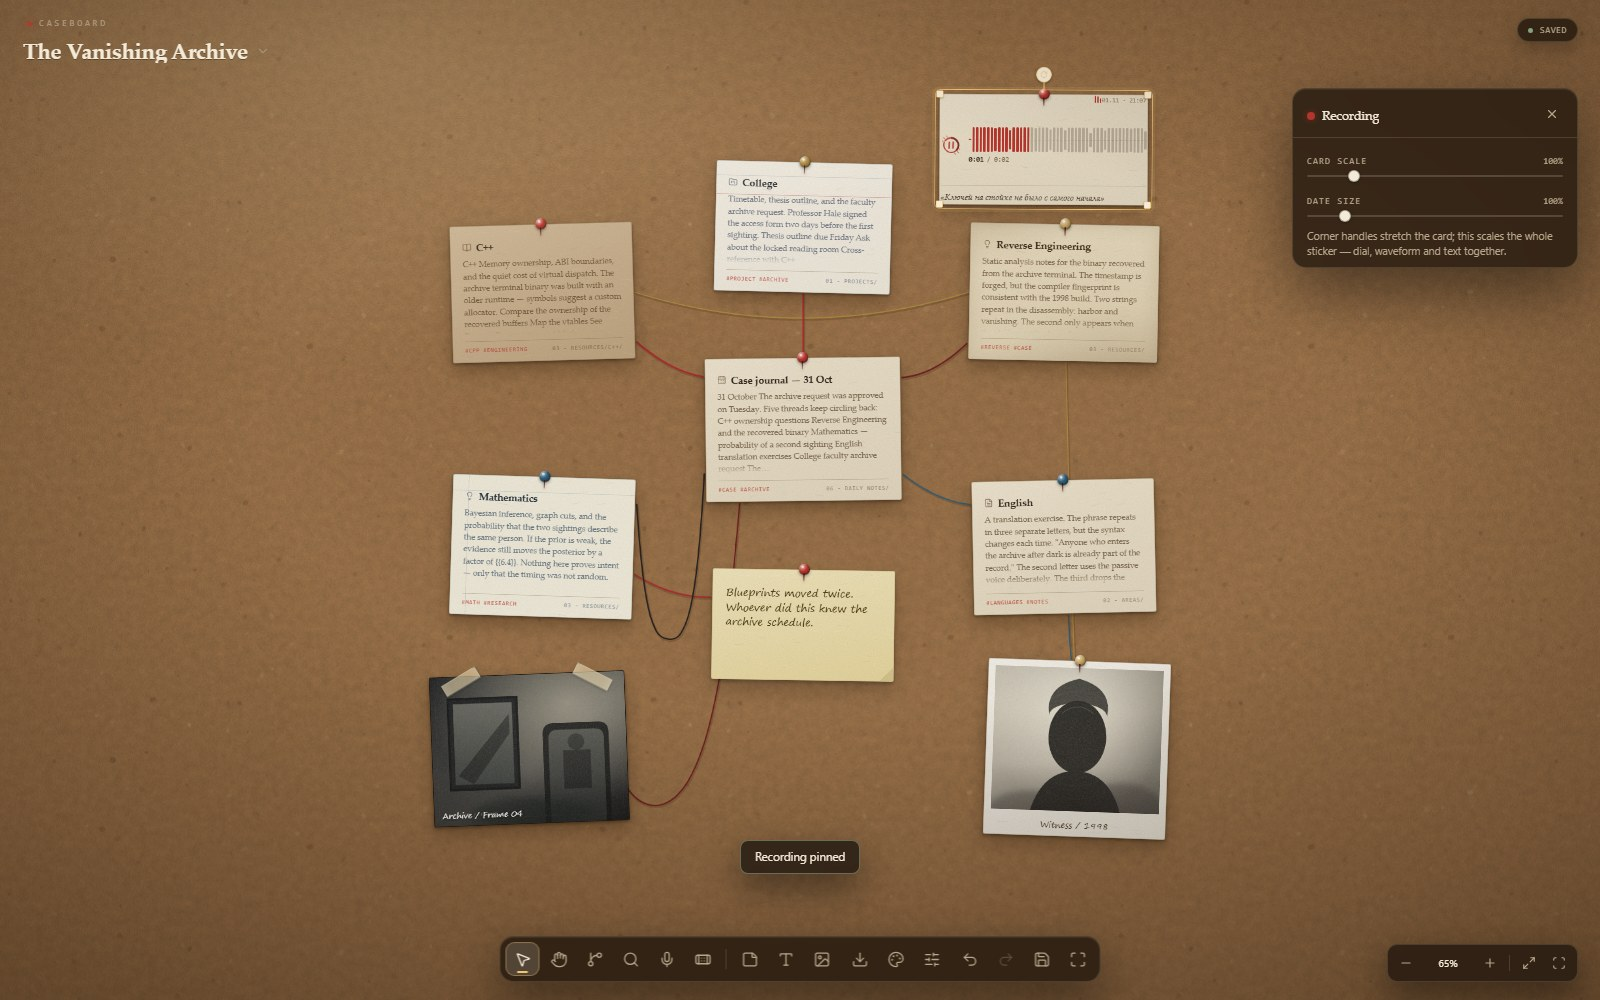
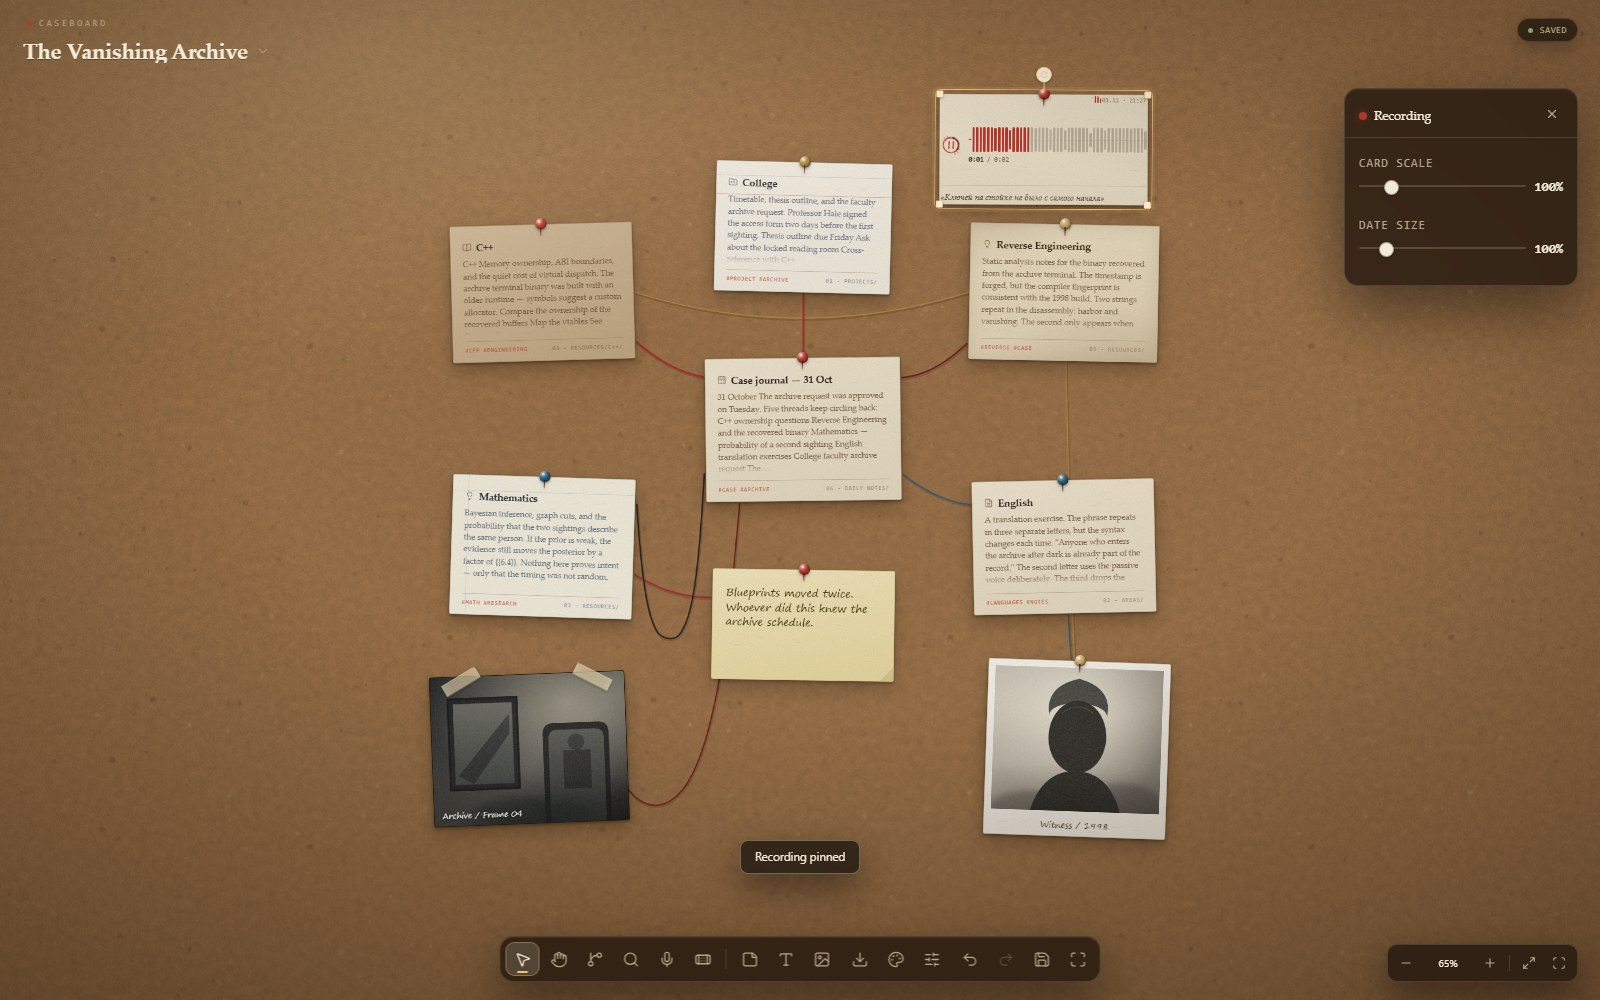
feat: redraw the play mark in chalk and tighten the recording panel
The mark was a stack of faint dashed strokes buried under a coarse grain
filter, so it turned to mud at the 32 px it actually occupies. It is now
one firm crayon pass with a retracing stroke beside it, a hatched triangle
and lifted-off flicks, with a gentle displacement filter that keeps the
played arc legible. The panel drops the hint line and prints the percentage
beside its slider.

Changed region(s): [[0.7812, 0.062, 1.0, 0.31]]

diff --git a/src/render/AudioCard.ts b/src/render/AudioCard.ts
@@ -18,28 +18,27 @@ const MIN_BARS = 12;
 const MAX_BARS = 84;
 
 /**
- * The circle is drawn as three overlapping passes with broken dashes, so the crayon
- * runs out of ink in places and overshoots where the stroke meets its own start.
+ * The mark is drawn, not typed: one firm crayon pass around the outside, a lighter
+ * retracing pass beside it, and a triangle shaded with diagonal strokes so the paper
+ * reads through. A per-card chalk filter breaks the edges and punches the grain.
  */
 const RING_MAIN =
-  "M16.9 4.7C23 5.4 27.6 10.5 27.3 16.6 27 22.7 21.9 27.6 15.8 27.2 9.9 26.8 5.1 21.8 4.8 15.9 4.5 10.2 9.4 5 15.5 4.6c1.4-.1 2.5-.1 3.5.2";
-const RING_PASS_ONE =
-  "M14.6 5.9C20.4 5 26.2 9.4 26.7 15.4 27.2 21.4 22.6 26.9 16.6 27.1 10.7 27.3 5.6 22.8 5.1 17 4.6 11.5 8.7 6.7 14 5.9";
-const RING_PASS_TWO =
-  "M18.6 4.1C24.4 5.5 28.4 10.8 27.8 16.8 27.2 22.7 21.9 27.3 15.9 26.9 10.1 26.5 5.2 21.7 4.6 15.9 4.1 10.7 8.1 5.7 13.6 4.4";
+  "M15.4 4.4c6.5-.4 12.1 4.7 12.2 11.1.1 6.5-5.2 11.9-11.7 11.9C9.5 27.4 4 22.1 4 15.7 4 9.6 8.9 4.7 15 4.4c1.2 0 2.1.1 3 .4";
+const RING_RETRACE =
+  "M13.8 5.6c6.1-1.3 12.6 2.9 13.3 9.1.7 6.2-4.4 12.2-10.6 12.7-6.3.5-12.1-4.4-12.4-10.7C3.8 9.9 8.4 5.4 13.8 5.6";
 const TRIANGLE =
-  "M12.7 10.9 21.6 15.9c.6.3.6 1.2 0 1.5l-8.9 4.9c-.7.4-1.5-.1-1.5-.9l.1-9.6c0-.8.8-1.2 1.4-.8Z";
-const TRIANGLE_ECHO = "M13.9 12.5 20.2 16.1 13.7 19.7 13.8 12.7";
-const PAUSE_ONE = "M13.3 11.5 12.9 20.7";
-const PAUSE_TWO = "M19.3 11.3 18.9 20.5";
-/** Short strokes radiating from the circle, like the pencil was lifted with a flourish. */
+  "M12.4 10.4 21.9 15.7c.8.4.8 1.6 0 2l-9.5 5.3c-.9.5-2-.2-2-1.2V11.6c0-1 1.1-1.6 2-1.2Z";
+const TRIANGLE_ECHO = "M13.6 12.5 20.1 16.2 13.5 19.9Z";
+const PAUSE_ONE = "M13 11.2 12.6 20.8";
+const PAUSE_TWO = "M19.6 11.2 19.2 20.8";
+/** Short flicks outside the circle, the way a crayon is lifted off the paper. */
 const SPARKS = [
-  "M6.5 6.5 4.7 4.7",
-  "M3.9 10.3 2.4 9.7",
-  "M10.3 3.9 9.4 1.9",
-  "M25.5 25.5 27.5 27.5",
-  "M28.2 21.7 29.6 22.3",
-  "M21.7 28.2 22.7 30.3",
+  "M7.4 6.8 5.1 4.5",
+  "M4.4 10.1 1.9 9.2",
+  "M10.4 4.1 9.6 1.6",
+  "M24.6 25.2 26.9 27.5",
+  "M27.6 21.9 30.1 22.8",
+  "M21.6 27.9 22.4 30.4",
 ];
 
 /**
@@ -113,30 +112,78 @@ export class AudioCard {
   }
 
   private buildDial(): { svg: SVGSVGElement; arc: SVGPathElement } {
-    const hatch = `cb-audio-hatch-${this.node.id}`;
+    const uid = this.node.id;
+    const hatch = `cb-audio-hatch-${uid}`;
+    const chalk = `cb-audio-chalk-${uid}`;
     const svg = createSvg("svg", { attr: { viewBox: "0 0 32 32", "aria-hidden": "true" } });
 
     const defs = createSvg("defs");
+    const filter = createSvg("filter", {
+      attr: {
+        id: chalk,
+        x: "-20%",
+        y: "-20%",
+        width: "140%",
+        height: "140%",
+        "color-interpolation-filters": "sRGB",
+      },
+    });
+    const transfer = createSvg("feComponentTransfer", {
+      attr: { in: "grain", result: "grainAlpha" },
+    });
+    transfer.appendChild(
+      createSvg("feFuncA", { attr: { type: "table", tableValues: "0 0.3 0.86 1 1 1" } }),
+    );
+    filter.append(
+      createSvg("feTurbulence", {
+        attr: {
+          type: "fractalNoise",
+          baseFrequency: "0.028",
+          numOctaves: "3",
+          seed: "7",
+          result: "warp",
+        },
+      }),
+      createSvg("feDisplacementMap", {
+        attr: {
+          in: "SourceGraphic",
+          in2: "warp",
+          scale: "1.15",
+          xChannelSelector: "R",
+          yChannelSelector: "G",
+          result: "wobbled",
+        },
+      }),
+      createSvg("feTurbulence", {
+        attr: {
+          type: "fractalNoise",
+          baseFrequency: "0.21",
+          numOctaves: "3",
+          seed: "19",
+          result: "grain",
+        },
+      }),
+      transfer,
+      createSvg("feComposite", {
+        attr: { in: "wobbled", in2: "grainAlpha", operator: "in" },
+      }),
+    );
     const pattern = createSvg("pattern", {
       attr: {
         id: hatch,
-        width: 2.4,
-        height: 2.4,
+        width: 2.3,
+        height: 2.3,
         patternUnits: "userSpaceOnUse",
         patternTransform: "rotate(-38)",
       },
     });
-    pattern.appendChild(createSvg("path", { attr: { d: "M0 0 V2.4", class: "cb-audio-hatch-line" } }));
-    defs.appendChild(pattern);
+    pattern.appendChild(createSvg("path", { attr: { d: "M0 0 V2.3", class: "cb-audio-hatch-line" } }));
+    defs.append(filter, pattern);
     svg.appendChild(defs);
 
-    svg.appendChild(
-      createSvg("path", { attr: { d: RING_PASS_TWO, class: "cb-audio-dial-ghost" } }),
-    );
-    svg.appendChild(
-      createSvg("path", { attr: { d: RING_PASS_ONE, class: "cb-audio-dial-back" } }),
-    );
-    svg.appendChild(
+    const mark = createSvg("g", { attr: { class: "cb-audio-mark", filter: `url(#${chalk})` } });
+    mark.appendChild(createSvg("path", { attr: { d: RING_RETRACE, class: "cb-audio-dial-back" } }));
+    mark.appendChild(
       createSvg("path", { attr: { d: RING_MAIN, class: "cb-audio-dial-ring", pathLength: 100 } }),
     );
     const arc = createSvg("path", {
@@ -147,11 +194,11 @@ export class AudioCard {
         "stroke-dasharray": "0 100",
       },
     });
-    svg.appendChild(arc);
+    mark.appendChild(arc);
 
     const sparks = createSvg("g", { attr: { class: "cb-audio-sparks" } });
     for (const d of SPARKS) sparks.appendChild(createSvg("path", { attr: { d } }));
-    svg.appendChild(sparks);
+    mark.appendChild(sparks);
 
     const glyph = createSvg("g", { attr: { class: "cb-audio-glyph" } });
     glyph.append(
@@ -159,15 +206,16 @@ export class AudioCard {
       createSvg("path", { attr: { d: TRIANGLE, class: "cb-audio-triangle" } }),
       createSvg("path", { attr: { d: TRIANGLE_ECHO, class: "cb-audio-triangle-echo" } }),
     );
-    svg.appendChild(glyph);
+    mark.appendChild(glyph);
 
     const pause = createSvg("g", { attr: { class: "cb-audio-pause" } });
     pause.append(
       createSvg("path", { attr: { d: PAUSE_ONE } }),
       createSvg("path", { attr: { d: PAUSE_TWO } }),
     );
-    svg.appendChild(pause);
+    mark.appendChild(pause);
 
+    svg.appendChild(mark);
     return { svg, arc };
   }
 

diff --git a/src/styles/nodes.css b/src/styles/nodes.css
@@ -1179,6 +1179,86 @@
   transform: scale(0.95);
 }
 
+.cb-audio-dial-back,
+.cb-audio-dial-ring,
+.cb-audio-dial-progress,
+.cb-audio-triangle,
+.cb-audio-triangle-echo,
+.cb-audio-sparks path,
+.cb-audio-pause {
+  fill: none;
+  stroke-linecap: round;
+  stroke-linejoin: round;
+}
+
+.cb-audio-dial-back {
+  stroke: var(--cb-node-accent);
+  stroke-width: 1.7;
+  opacity: 0.42;
+}
+
+.cb-audio-dial-ring {
+  stroke: var(--cb-node-accent);
+  stroke-width: 2.6;
+  opacity: 0.92;
+}
+
+.cb-audio-dial-progress {
+  stroke: color-mix(in srgb, var(--cb-node-accent) 55%, var(--card-ink));
+  stroke-width: 3.1;
+  opacity: 0;
+}
+
+.cb-audio-hatch-line {
+  stroke: color-mix(in srgb, var(--cb-node-accent) 72%, transparent);
+  stroke-width: 1.45;
+  stroke-linecap: round;
+}
+
+.cb-audio-triangle {
+  stroke: var(--cb-node-accent);
+  stroke-width: 2.2;
+}
+
+.cb-audio-triangle-echo {
+  stroke: color-mix(in srgb, var(--cb-node-accent) 34%, transparent);
+  stroke-width: 1.1;
+}
+
+.cb-audio-sparks path {
+  stroke: var(--cb-node-accent);
+  stroke-width: 2.2;
+  opacity: 0.85;
+}
+
+.cb-audio-pause {
+  stroke: var(--cb-node-accent);
+  stroke-width: 3;
+  display: none;
+}
+
+.cb-audio[data-state="playing"] .cb-audio-glyph,
+.cb-audio[data-state="paused"] .cb-audio-glyph {
+  display: none;
+}
+
+.cb-audio[data-state="playing"] .cb-audio-pause,
+.cb-audio[data-state="paused"] .cb-audio-pause {
+  display: block;
+}
+
+.cb-audio[data-state="playing"] .cb-audio-dial-progress {
+  opacity: 1;
+}
+
+.cb-audio-play:hover {
+  transform: scale(1.05);
+}
+
+.cb-audio-play:active {
+  transform: scale(0.95);
+}
+
 .cb-audio-dial-ghost,
 .cb-audio-dial-back,
 .cb-audio-dial-ring,
@@ -1264,22 +1344,6 @@
 .cb-audio[data-state="playing"] .cb-audio-dial-progress,
 .cb-audio[data-state="paused"] .cb-audio-dial-progress {
   opacity: 1;
-}
-
-.cb-audio[data-state="playing"] .cb-audio-hatch-line {
-  stroke: color-mix(in srgb, var(--cb-node-accent) 78%, transparent);
-}
-
-.cb-audio[data-state="playing"] .cb-audio-triangle {
-  stroke: color-mix(in srgb, var(--cb-node-accent) 88%, transparent);
-}
-
-.cb-audio[data-state="playing"] .cb-audio-triangle-echo {
-  stroke: color-mix(in srgb, var(--cb-node-accent) 45%, transparent);
-}
-
-.cb-audio[data-state="playing"] .cb-audio-pause {
-  stroke: color-mix(in srgb, var(--cb-node-accent) 90%, transparent);
 }
 
 .cb-audio-box {

diff --git a/src/ui/AudioInspector.ts b/src/ui/AudioInspector.ts
@@ -80,10 +80,6 @@ export class AudioInspector {
       input.addEventListener("pointerup", () => this.finishLive());
     }
 
-    body.createDiv({
-      cls: "cb-audio-inspector-hint",
-      text: "Corner handles stretch the card; this scales the whole sticker — dial, waveform and text together.",
-    });
   }
 
   setAudio(node: AudioBoardNode | null): void {
@@ -126,11 +122,10 @@ export class AudioInspector {
 
   private slider(parent: HTMLElement, label: string): { input: HTMLInputElement; valueEl: HTMLElement } {
     const bounds = label === "Card scale" ? [SCALE_MIN, SCALE_MAX] : [STAMP_MIN, STAMP_MAX];
-    const row = parent.createDiv({ cls: "cb-slider-row" });
-    const head = row.createDiv({ cls: "cb-slider-head" });
-    head.createSpan({ cls: "cb-field-label", text: label });
-    const valueEl = head.createSpan({ cls: "cb-slider-value", text: "" });
-    const input = row.createEl("input", {
+    const row = parent.createDiv({ cls: "cb-slider-row cb-audio-slider" });
+    row.createDiv({ cls: "cb-field-label", text: label });
+    const track = row.createDiv({ cls: "cb-audio-slider-track" });
+    const input = track.createEl("input", {
       cls: "cb-slider",
       attr: {
         type: "range",
@@ -140,6 +135,7 @@ export class AudioInspector {
         "aria-label": label,
       },
     });
+    const valueEl = track.createSpan({ cls: "cb-slider-value", text: "" });
     return { input, valueEl };
   }
 }

diff --git a/src/styles/ui.css b/src/styles/ui.css
@@ -2303,9 +2303,45 @@
   box-shadow: 0 0 6px color-mix(in srgb, var(--cb-pin) 45%, transparent);
 }
 
-.cb-audio-inspector-hint {
-  font-family: var(--cb-font-ui);
-  font-size: 10.5px;
-  line-height: 1.45;
-  color: var(--cb-ui-muted);
+.cb-audio-inspector {
+  width: 232px;
+  padding-bottom: 4px;
+}
+
+.cb-audio-inspector .cb-field-label {
+  font-size: 12px;
+  letter-spacing: 0.07em;
+}
+
+.cb-audio-slider {
+  margin-bottom: 11px;
+}
+
+.cb-audio-slider-track {
+  display: flex;
+  align-items: center;
+  gap: 8px;
+}
+
+.cb-audio-slider-track .cb-slider {
+  flex: 1;
+  min-width: 0;
+}
+
+.cb-audio-inspector .cb-slider-value {
+  flex: none;
+  font-family: var(--cb-font-mono);
+  font-size: 13px;
+  font-weight: 600;
+  color: var(--cb-ui-text);
+  font-variant-numeric: tabular-nums;
+}
+
+.cb-audio-inspector .cb-slider {
+  height: 22px;
+}
+
+.cb-audio-inspector .cb-slider::-webkit-slider-thumb {
+  width: 15px;
+  height: 15px;
 }
